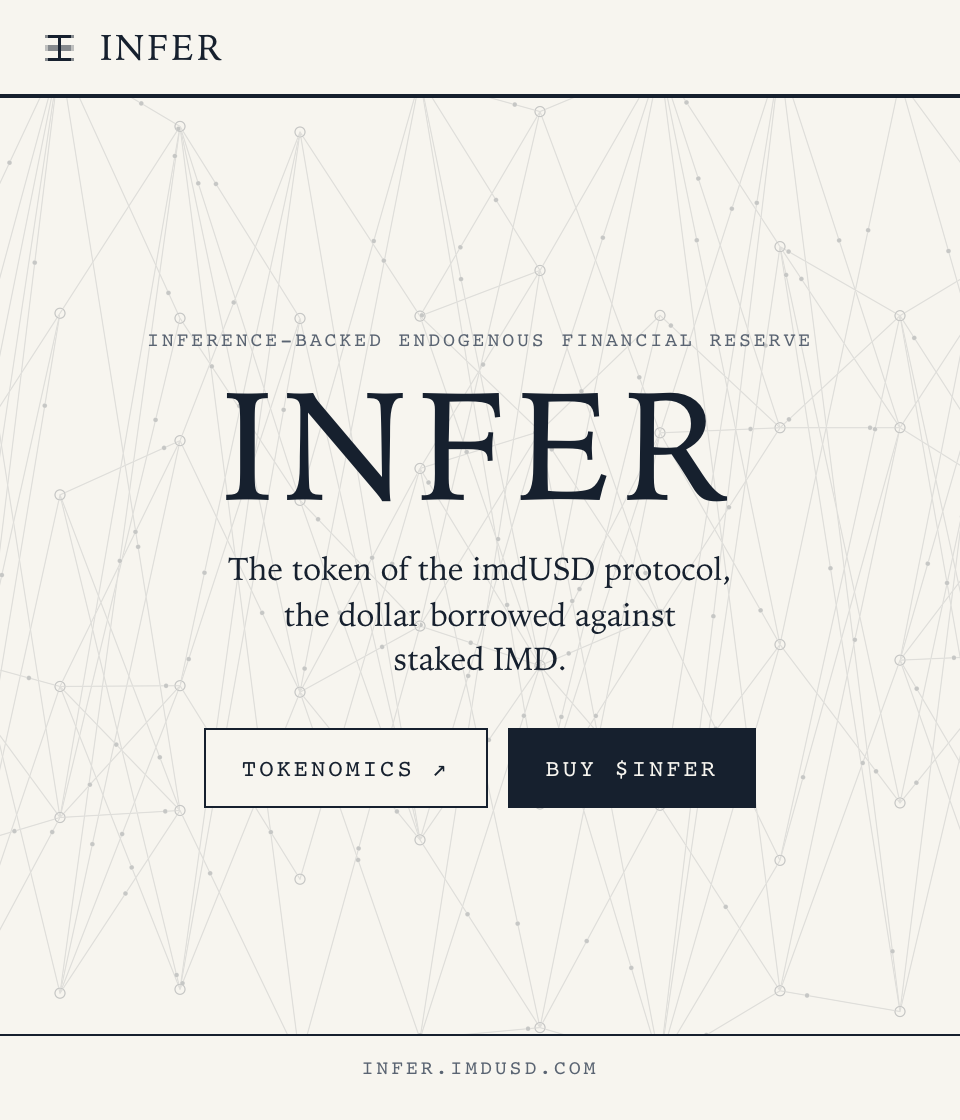
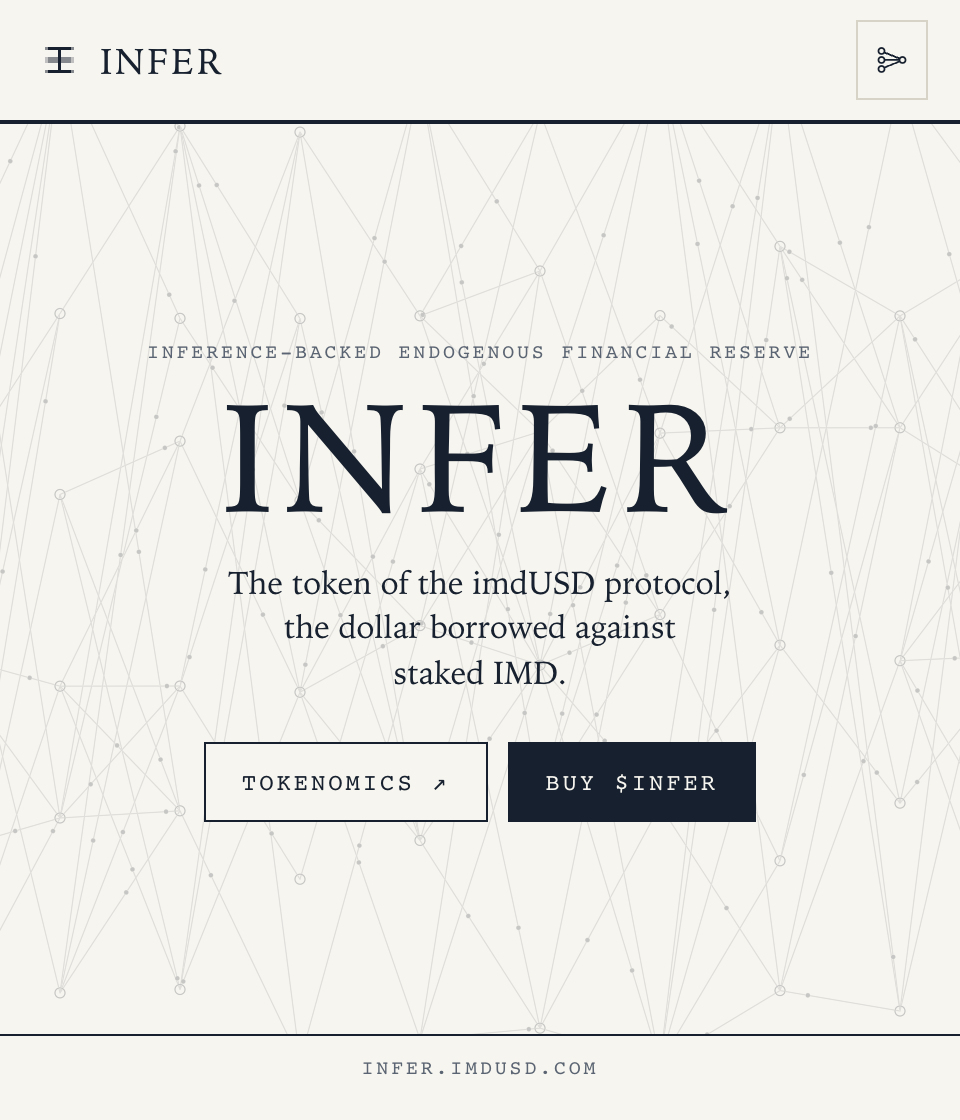
INFER: "disconnected" is the way to connect; the /buy/ card gets the background button
With no wallet connected, the balance label above each amount (trade, stake, claim, and the /buy/
sheet) reads Connect wallet and opens the chooser. On the card before launch it is the only way in,
since the sheet's main button says trading opens at launch. The card's masthead gains the background
button beside the price; on a narrow card the price stacks over the market cap instead of wrapping.
The still is re-rendered with the new masthead.

diff --git a/web/src/infer/Buy.tsx b/web/src/infer/Buy.tsx
@@ -11,7 +11,9 @@ import { useEffect, useRef, useState } from "react";
 import { Trade } from "./App";
 import { LIVE } from "./config";
 import { useInferMarket, usdCompact, usdPrice } from "./price";
+import { Vibe } from "../vibe";
 import { Fig, Mark, WalletChooser, short, useWallet } from "./ui";
+import { INFER_VIBES } from "./vibes";
 
 export function Buy() {
   const m = useInferMarket();
@@ -43,16 +45,22 @@ export function Buy() {
           <Mark />
           INFER
         </a>
-        <p className="infer-buy-price">
-          <span className="sr-only">Price </span>
-          <strong>
-            <Fig v={m ? usdPrice(m.priceUsd) : null} />
-          </strong>
-          <span className="infer-buy-cap">
-            {" · MC "}
-            <Fig v={m ? usdCompact(m.marketCapUsd) : null} />
-          </span>
-        </p>
+        <div className="infer-buy-tools">
+          <p className="infer-buy-price">
+            <span className="sr-only">Price </span>
+            <strong>
+              <Fig v={m ? usdPrice(m.priceUsd) : null} />
+            </strong>
+            <span className="infer-buy-cap">
+              <span className="infer-buy-sep" aria-hidden="true">
+                {" · "}
+              </span>
+              {"MC "}
+              <Fig v={m ? usdCompact(m.marketCapUsd) : null} />
+            </span>
+          </p>
+          <Vibe suite={INFER_VIBES} />
+        </div>
       </header>
       <main className="infer-buy-main">
         <p className="infer-kicker">

diff --git a/web/src/infer/ui.tsx b/web/src/infer/ui.tsx
@@ -884,14 +884,29 @@ export function Balance({
   symbol,
   decimals,
   onUse,
+  wallet,
 }: {
   account: Address | null;
   value: bigint | null | undefined;
   symbol: string;
   decimals: number;
   onUse: (amount: string) => void;
+  /** With no account, the label is the way to connect (and on the /buy/ card before launch, the only one). */
+  wallet?: Wallet;
 }) {
-  if (!account) return <span className="infer-bal">disconnected</span>;
+  if (!account)
+    return wallet ? (
+      <button
+        type="button"
+        className="infer-bal infer-bal-use"
+        disabled={wallet.busy}
+        onClick={() => void wallet.connect()}
+      >
+        {wallet.busy ? "Connecting…" : "Connect wallet"}
+      </button>
+    ) : (
+      <span className="infer-bal">disconnected</span>
+    );
   if (value === undefined) return <span className="infer-bal">…</span>;
   if (value === null || value === 0n)
     return <span className="infer-bal">No {symbol}</span>;

diff --git a/web/src/style.css b/web/src/style.css
@@ -3621,6 +3621,13 @@ body:has(> .vibe-canvas:not([hidden]))
   border-bottom: 2px solid var(--text);
   background: var(--bg);
 }
+/* The price, then the background button (vibe.tsx), as on every other page's masthead. */
+.infer-buy-tools {
+  display: flex;
+  align-items: center;
+  gap: 12px;
+  min-width: 0;
+}
 .infer-buy-price {
   margin: 0;
   font-size: 13px;
@@ -3634,6 +3641,19 @@ body:has(> .vibe-canvas:not([hidden]))
 }
 .infer-buy-cap {
   color: var(--muted);
+}
+
+/* A narrow card stacks the price over the market cap rather than wrapping mid-line. */
+@media (max-width: 420px) {
+  .infer-buy-price {
+    display: flex;
+    flex-direction: column;
+    align-items: flex-end;
+    line-height: 1.2;
+  }
+  .infer-buy-sep {
+    display: none;
+  }
 }
 .infer-buy-main {
   flex: 1;

diff --git a/web/src/infer/App.tsx b/web/src/infer/App.tsx
@@ -363,6 +363,7 @@ export function Trade({
           <span className="infer-field-k">
             You pay
             <Balance
+              wallet={w}
               account={w.account}
               value={balanceIn}
               symbol={symbolIn}
@@ -833,6 +834,7 @@ function Stake({
           <span className="infer-field-k">
             {mode === "stake" ? "Stake" : "Unstake"}
             <Balance
+              wallet={w}
               account={w.account}
               value={balance}
               symbol={unit}

diff --git a/web/src/infer/Claim.tsx b/web/src/infer/Claim.tsx
@@ -350,6 +350,7 @@ export function Claim() {
                     <span className="infer-field-k">
                       {r.symbol} to burn
                       <Balance
+                        wallet={w}
                         account={toAddress}
                         value={legacyBalances[i]}
                         symbol={r.symbol}
